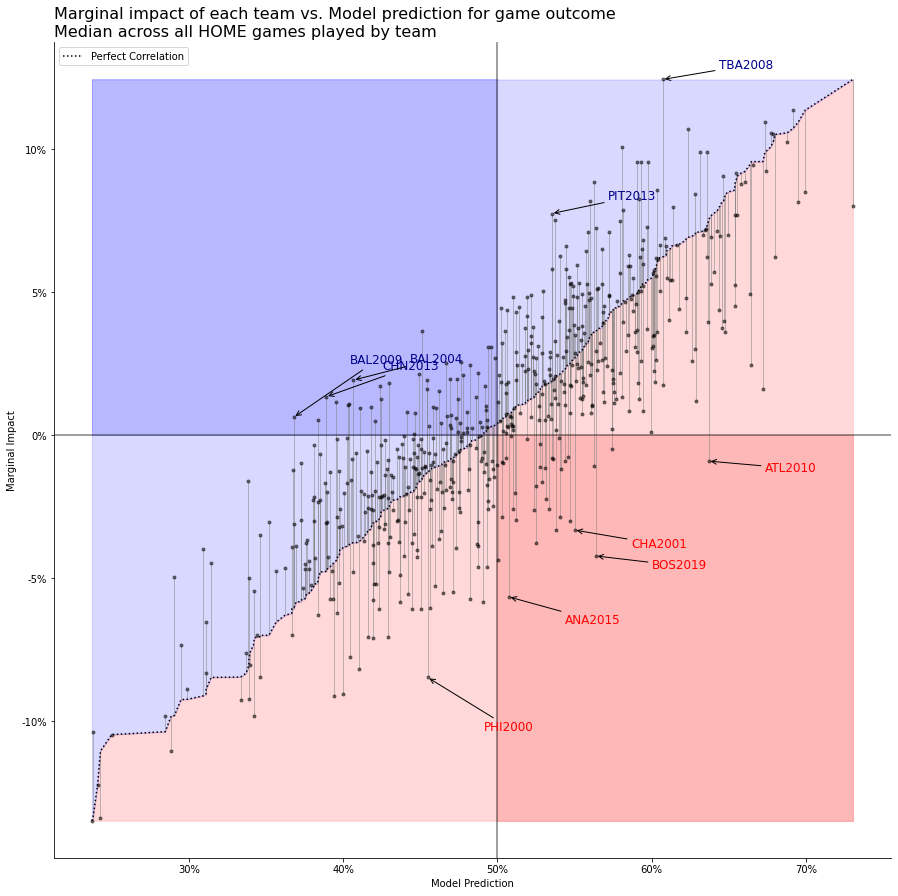
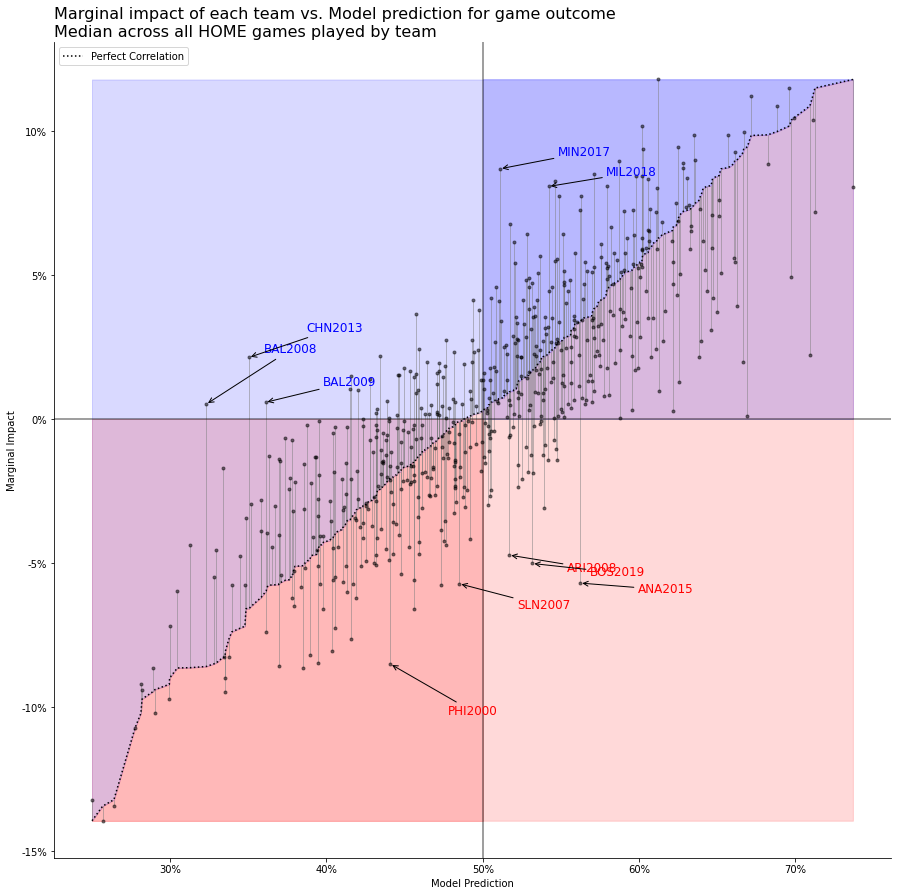
Update README and plots

diff --git a/README.md b/README.md
@@ -4,12 +4,26 @@ Analysis of historical baseball games using ML.
 ## SHAP Feature Impact
 The `SHAPExplainer` class allows you to estimate the impact of individual features on the outcome of a target variable:
 
-Globally across a large sample of games:
+### Globally across a large sample of games:
 ![Global Impact](./images/global_impact.png)
 
-From the perspective of different values a specific feature could assume, and the average marginal impact of each of those values:
-![Feature Levels Marginal Impact](./images/feature_levels_marginal_impact.png)
-In this examples, the model would have predicted a median win probability of ~56.3% across home games for the 2019 Boston Red Sox, using all of the input features. However, isolating the marginal impact of the `team` feature (the model's quantitative assessment of the quality of the 2019 Boston Red Sox holding all other features constant), we can see that particular value for the team feature had a median marginal contribution of almost -5% to the win probability. This values is well below what we would have predicted if the model's predictions and the marginal impact of the `team` feature were perfectly correlated.
+### From the perspective of a single feature:
+By looking at the different values a specific feature (e.g. `team`) could assume (e.g.; `['ANA2015', .., 'BOS2019', ..]`), and the average marginal impact of each of those values.
 
-Or locally, detailing how each feature contributed to the prediction for a single game:
+#### Marginal impact plot of `team` feature
+![Feature Levels Marginal Impact](./images/feature_levels_marginal_impact.png)
+In this example, the model predicted a median win probability of ~53.17% across home games for the 2019 Boston Red Sox, using all of the input features. However, isolating the marginal impact of the `team` feature (the model's quantitative assessment of the quality of the 2019 Boston Red Sox holding all other features constant), we can see that particular value for the team feature had a median marginal contribution of almost -5% to the win probability. This values is well below what we would have predicted if the model's predictions and the marginal impact of the `team` feature were perfectly correlated.
+
+#### Feature embedding marginal impact plot of `pitcher` feature
+![Feature Embedding Marginal Impact](./images/feature_embedding_marginal_impact.png)
+In this example, we've plotted a 2-dimensional projection of the embedding the model learned for each of the starting pitchers in the analysis dataset (all games from 2000-2019).
+
+Each dot represents a pitcher and the color of the dot denotes the median marginal impact that pitcher had on the model's prediction of the team's win probability when he was starting at home. 
+
+The model learned when Max Fried pitched at home, his team got close to a +20% boost to its chances of winning. While when Charles Nagy took the mound at home (from 2000-2003), he had a -30% impact on his team's chance of winning.
+
+
+### Locally
+Detailing how each feature contributed to the prediction for a single game:
 ![Local Impact](./images/local_impact.png)
+In this example, we've plotted the impact of each feature's marginal contribution to the model's prediction of the win probability of the TB Rays on the road facing the TOR Blue Jays in the last regular season game of the 2019 season. The model projected TB to win only slightly more than 42% of the time. The three biggest factors decreasing their chances were them starting Blake Snell, them playing on the road in front of a large Blue Jay's crowd, and them having to face Clay Buchholz.
